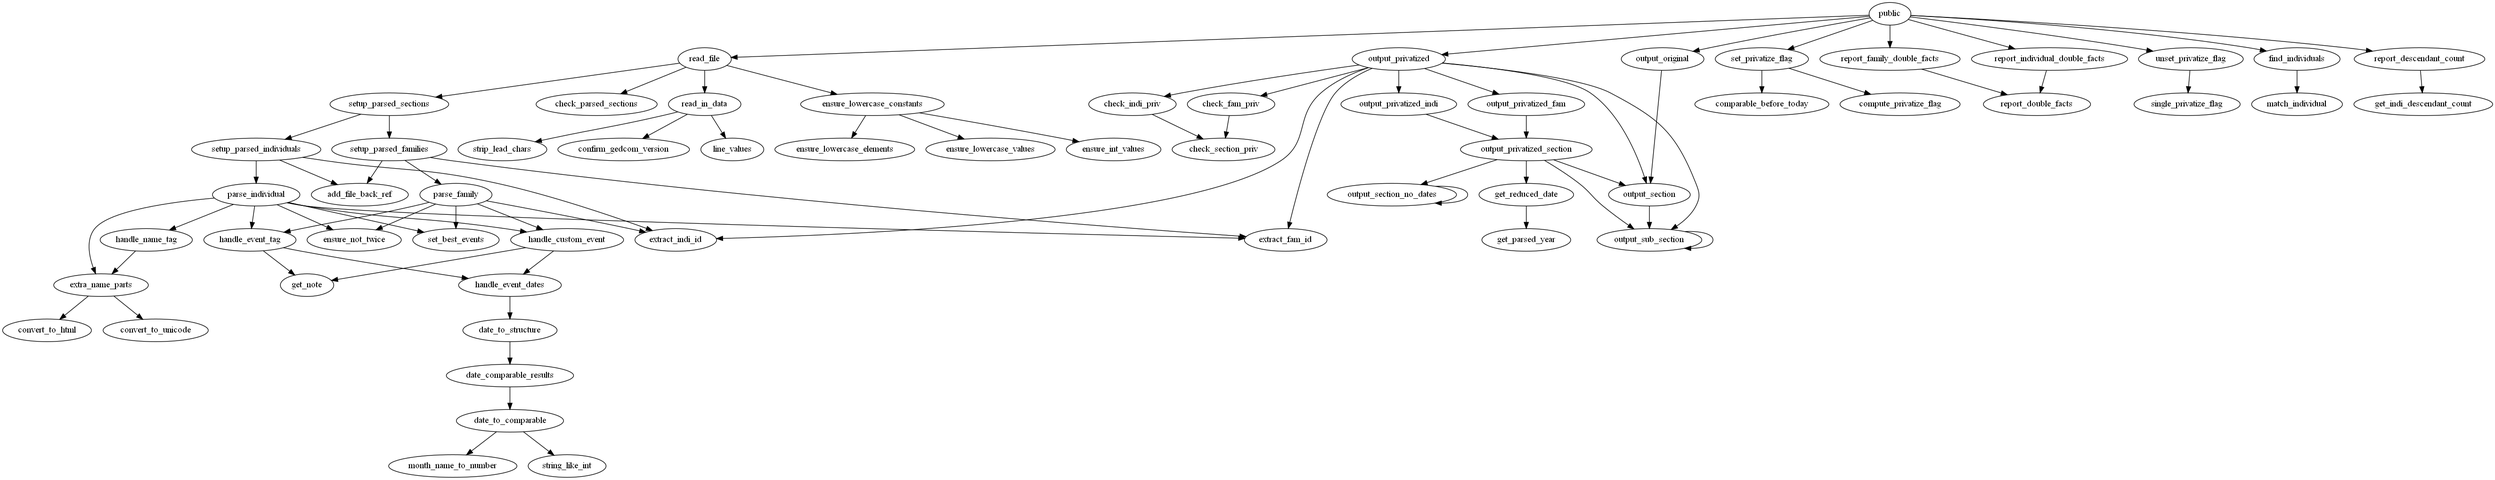
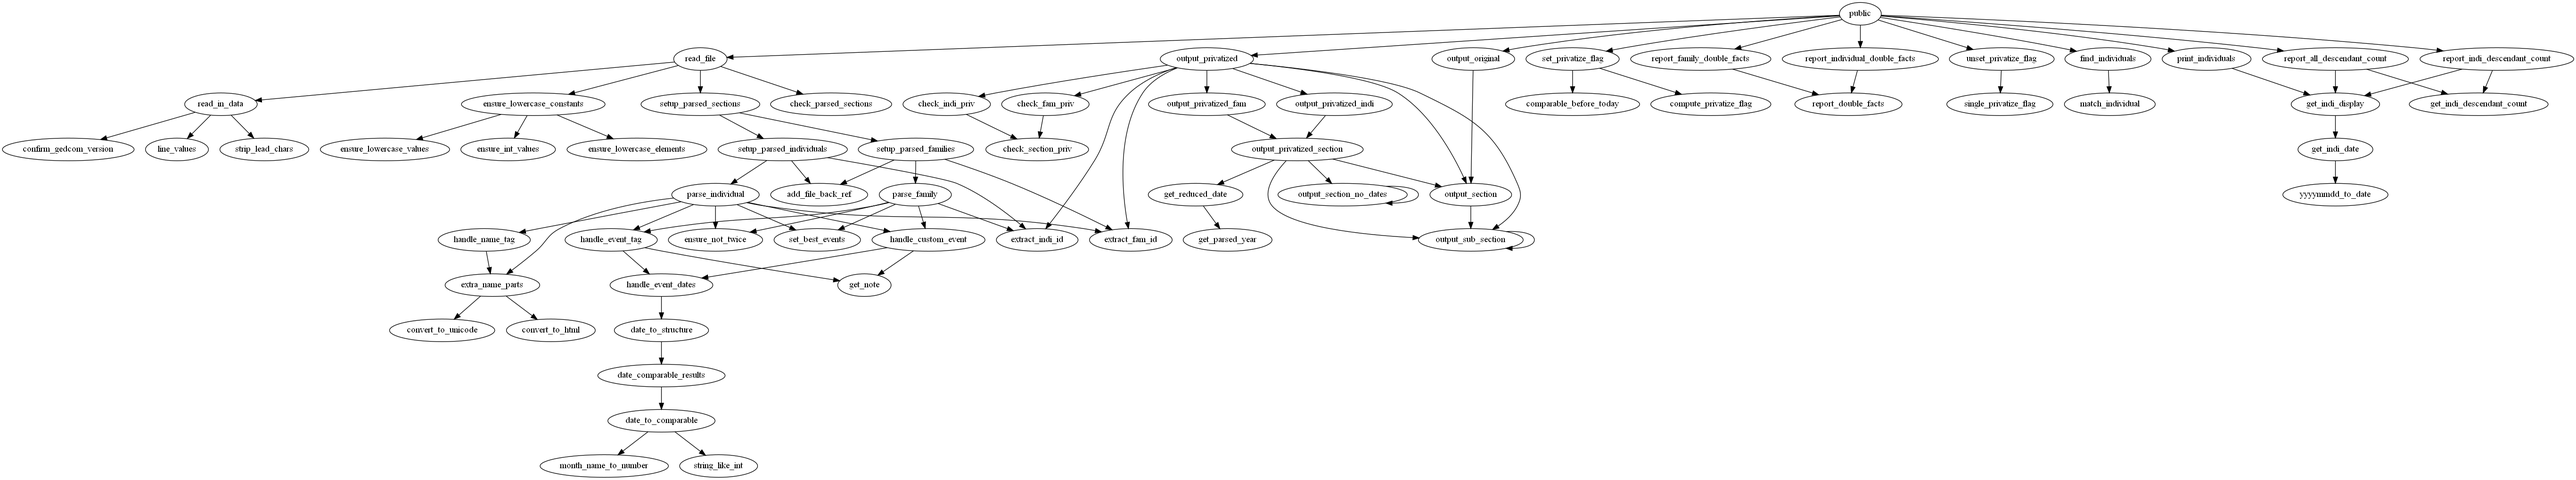
Add function print_individuals

diff --git a/readgedcom.py b/readgedcom.py
@@ -20,6 +20,10 @@ Public functions:
 
     report_descendant_report( data )
 
+    id_list = find_individuals( data, search_tag, search_value, operation='=' )
+
+    print_individuals( data, id_list )
+
 
 The input file should be well formed as this code only checks for
 a few structural errors. A verification program can be found here:
@@ -37,7 +41,7 @@ Specs at https://gedcom.io/specs/
 
 This code is released under the MIT License: https://opensource.org/licenses/MIT
 Copyright (c) 2021 John A. Andrea
-v0.9.9
+v0.9.10
 """
 
 import sys
@@ -194,6 +198,16 @@ def string_like_int( s ):
     if re.search( r'\D', s ):
        return False
     return True
+
+
+def yyyymmdd_to_date( yyyymmdd ):
+                     #01234567
+    """ Return the human form of dd mmm yyyy. """
+    y = yyyymmdd[:4]
+    m = yyyymmdd[4:6]
+    d = yyyymmdd[6:]
+
+    return d + ' ' + MONTH_NAMES[int(m)] + ' ' + y
 
 
 def comparable_before_today( years_ago ):
@@ -1708,6 +1722,56 @@ def match_individual( indi_data, tag, subtag, search_value, operation ):
     return found
 
 
+def get_indi_display( indi_data ):
+    """ Return a dict of basic details for an individual. """
+
+    def get_indi_date( indi_data, tag ):
+        """ Return the best input file date for the given tag, or the empty string. """
+        result = ''
+        best = 0
+        if BEST_EVENT_KEY in indi_data:
+           if tag in indi_data[BEST_EVENT_KEY]:
+              best = indi_data[BEST_EVENT_KEY][tag]
+        if tag in indi_data:
+           if indi_data[tag][best]['date']['is_known']:
+              result = indi_data[tag][best]['date']['min']['modifier']
+              result += ' ' + yyyymmdd_to_date( indi_data[tag][best]['date']['min']['value'] )
+              if indi_data[tag][best]['date']['is_range']:
+                 result += ' ' + indi_data[tag][best]['date']['max']['modifier']
+                 result += ' ' + yyyymmdd_to_date( indi_data[tag][best]['date']['max']['value'] )
+        return result.upper().replace( '  ', ' ' ).strip()
+
+    result = dict()
+
+    result['name'] = indi_data['name'][0]['display']
+    result['unicode'] = indi_data['name'][0]['unicode']
+    result['html'] = indi_data['name'][0]['html']
+    result['birt'] = get_indi_date( indi_data, 'birt' )
+    result['deat'] = get_indi_date( indi_data, 'deat' )
+
+    return result
+
+
+def print_individuals( data, id_list ):
+    """
+    Print to stdout the vital details for the people in the id list,
+    such as returned by the finf function.
+    """
+
+    assert isinstance( id_list, list ), 'Non-list passed as id_list'
+    assert isinstance( data, dict ), 'Non-dict passed as data'
+    assert PARSED_INDI in data, 'Passed data appears to not be from read_file'
+
+    # header
+    print( 'id\tName\tBirth\tDeath' )
+
+    for indi in id_list:
+        if isinstance( indi, str ):
+           if indi in data[PARSED_INDI]:
+              info = get_indi_display( data[PARSED_INDI][indi] )
+              print( indi + '\t' + info['name'] + '\t' + info['birt'] + '\t' + info['deat'] )
+
+
 def find_individuals( data, search_tag, search_value, operation='=' ):
     """
     Return a list of ids of the individual which match the search conditions.
@@ -1773,48 +1837,67 @@ def get_indi_descendant_count( indi, individuals, families, counts ):
     if 'fams' in individuals[indi]:
        for fam in individuals[indi]['fams']:
            for child in families[fam]['chil']:
+               # one more child for this person
                n_child += 1
                if child not in counts:
                   counts[child] = get_indi_descendant_count( child, individuals, families, counts )
+               # this child plus the child's descendants
                n_desc += 1 + counts[child][1]
+               # largest generations of all the children
                n_gen = max( n_gen, counts[child][2] )
     if n_child > 0:
+       # count the children's generation
        n_gen += 1
     return ( n_child, n_desc, n_gen )
 
 
-def report_descendant_count( data ):
+def print_descendant_count( indi, indi_data, indi_counts, header=False ):
+    """ Print a single count line. """
+
+    if header:
+       print( 'id\tName\tBirth\tDeath\tChildren\tDescendants\tGenerations' )
+    else:
+       results = get_indi_display( indi_data )
+       out = indi
+       out += '\t' + results['name']
+       out += '\t' + results['birt']
+       out += '\t' + results['deat']
+       out += '\t' + str( indi_counts[0] )
+       out += '\t' + str( indi_counts[1] )
+       out += '\t' + str( indi_counts[2] )
+       print( out )
+
+
+def report_indi_descendant_count( indi, data ):
+    """
+    Print to stdout a tab delimited file of this person's descendant count.
+    """
+    assert isinstance( data, dict ), 'Non-dict passed as data'
+    assert PARSED_INDI in data, 'Passed data appears to not be from read_file'
+    assert isinstance( indi, str ), 'Non-string given as the individual id'
+
+    print_descendant_count( None, None, None, header=True )
+
+    if indi in data[PARSED_INDI]:
+       counts = dict()
+       indi_counts = get_indi_descendant_count( indi, data[PARSED_INDI], data[PARSED_FAM], counts )
+       print_descendant_count( indi, data[PARSED_INDI][indi], indi_counts )
+
+
+def report_all_descendant_count( data ):
     """
     Print to stdout a tab delimited file of everyone and their descendant count.
     """
     assert isinstance( data, dict ), 'Non-dict passed as data'
     assert PARSED_INDI in data, 'Passed data appears to not be from read_file'
 
-    def get_indi_date( indi_data, tag ):
-        """ Return the best input file date for the given tag. """
-        result = ''
-        best = 0
-        if BEST_EVENT_KEY in indi_data:
-           if tag in indi_data[BEST_EVENT_KEY]:
-              best = indi_data[BEST_EVENT_KEY][tag]
-        if tag in indi_data:
-           if indi_data[tag][best]['date']['is_known']:
-              result = indi_data[tag][best]['date']['in']
-        return result
-
-    counted = dict()
+    counts = dict()
 
     for indi in data[PARSED_INDI]:
-        if indi not in counted:
-           counted[indi] = get_indi_descendant_count( indi, data[PARSED_INDI], data[PARSED_FAM], counted )
+        if indi not in counts:
+           counts[indi] = get_indi_descendant_count( indi, data[PARSED_INDI], data[PARSED_FAM], counts )
 
-    print( 'id\tName\tBirth\tDeath\tChildren\tDescendants\tGenerations' )
-    for indi in counted:
-        out = indi
-        out += '\t' + data[PARSED_INDI][indi]['name'][0]['display']
-        out += '\t' + get_indi_date( data[PARSED_INDI][indi], 'birt' )
-        out += '\t' + get_indi_date( data[PARSED_INDI][indi], 'deat' )
-        out += '\t' + str(counted[indi][0])
-        out += '\t' + str(counted[indi][1] )
-        out += '\t' + str(counted[indi][2] )
-        print( out )
+    print_descendant_count( None, None, None, header=True )
+
+    for indi in counts:
+        print_descendant_count( indi, data[PARSED_INDI][indi], counts[indi] )

diff --git a/README.md b/README.md
@@ -36,14 +36,17 @@ unset_privatize_flag( data )
 
 output_privatized( data, out_file_name )
 
-list_of_indi = find_individuals( data, search_tag, search_value, operation )
-
 report_individual_double_facts( data )
 
 report_family_double_facts( data )
 
-report_descendant_count( data )
+report_all_descendant_count( data )
 
+report_indi_descendant_count( indi, data )
+
+list_of_indi = find_individuals( data, search_tag, search_value, operation )
+
+print_individuals( data, list_of_indi )
 ```
 
 ### Basic usage
@@ -89,40 +92,9 @@ found_age = readgedcom.find_individuals( data, 'birt.date', '19600101', '<' )
 # intersection of the two lists
 found_both = [item for item in found_name if item in found_age]
 
-for indi in found_both:
-    print( '' )
-    print( indi )
-    print( data[readgedcom.PARSED_INDI][indi]['name'][0]['value'] )
-    print( data[readgedcom.PARSED_INDI][indi]['birt'][0]['date']['in'] )
+readgedcom.print_individuals( data, found_both )
 ```
 
-A slightly more correct version of the above script
-```
-#!/usr/bin/python3
-
-import sys
-import readgedcom
-
-def show_indi( indi_data ):
-    print( indi_data['name'][0]['value'] )
-    # this person has a known birth, no need to check for key existance
-    best = indi_data[readgedcom.BEST_EVENT_KEY]['birt']
-    print( indi_data['birt'][best]['date']['in'] )
-
-data = readgedcom.read_file( sys.argv[1] )
-
-found_name = readgedcom.find_individuals( data, 'name', 'Anne ', 'in' )
-found_age = readgedcom.find_individuals( data, 'birt.date', '19600101', '<' )
-
-# intersection of the two lists
-found_both = [item for item in found_name if item in found_age]
-
-for indi in found_both:
-    print( '' )
-    print( indi )
-    show_indi( data[readgedcom.PARSED_INDI][indi] )
-
-```
 
 A script to output the descendants of a selected individual (by EXID)
 into a JSON file.
@@ -313,3 +285,4 @@ This code is provided with neither support nor warranty.
 ### Future enhancements
 
 - Collect name type (nickname, aka, etc.) into the individual parsed section.
+- Find people pased on custom events.
